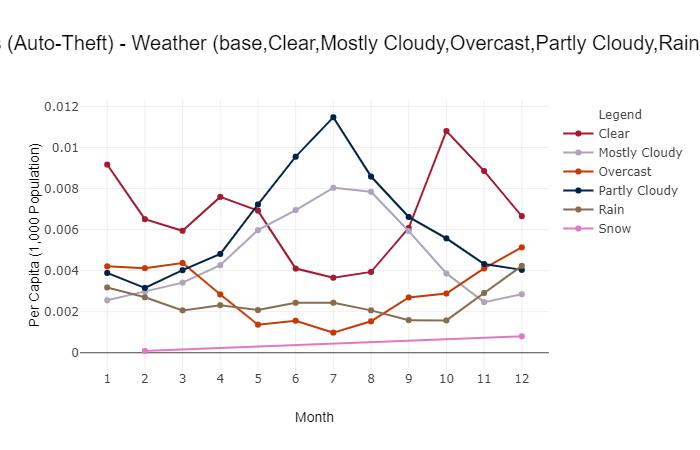
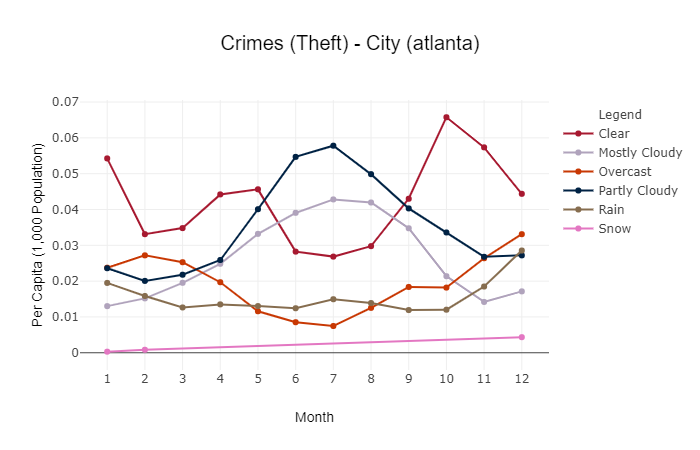
Corrected Graph Label

diff --git a/plots/static/js/plot_weather.js b/plots/static/js/plot_weather.js
@@ -34,7 +34,7 @@ function buildLines(sample) {
 
     // Define our plot layout
     var layout = {
-      title: {text: 'Crimes (' + crime + ') - Weather (' + weather + ')', font: {family: 'Arial', size: 20, color: 'black'}},
+      title: {text: 'Crimes (' + crime + ') - City (' + city + ')', font: {family: 'Arial', size: 20, color: 'black'}},
       xaxis: {type: 'category', title: {text: chart, font: {family: 'Arial', size: 14, color: 'black'}}},
       yaxis: {title: {text: yLabel, font: {family: 'Arial', size: 14, color: 'black'}}}
     };
